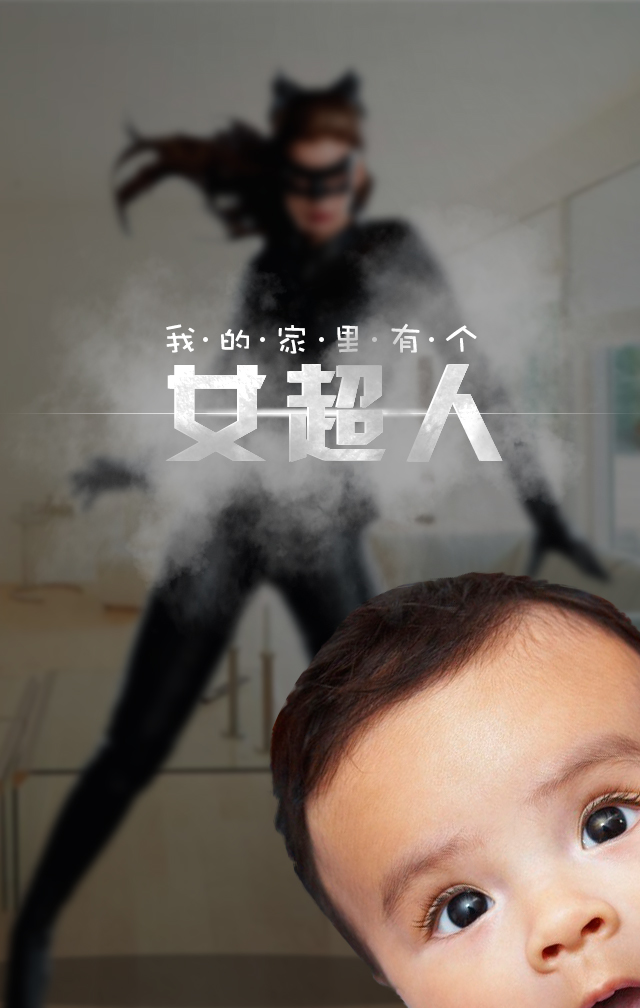
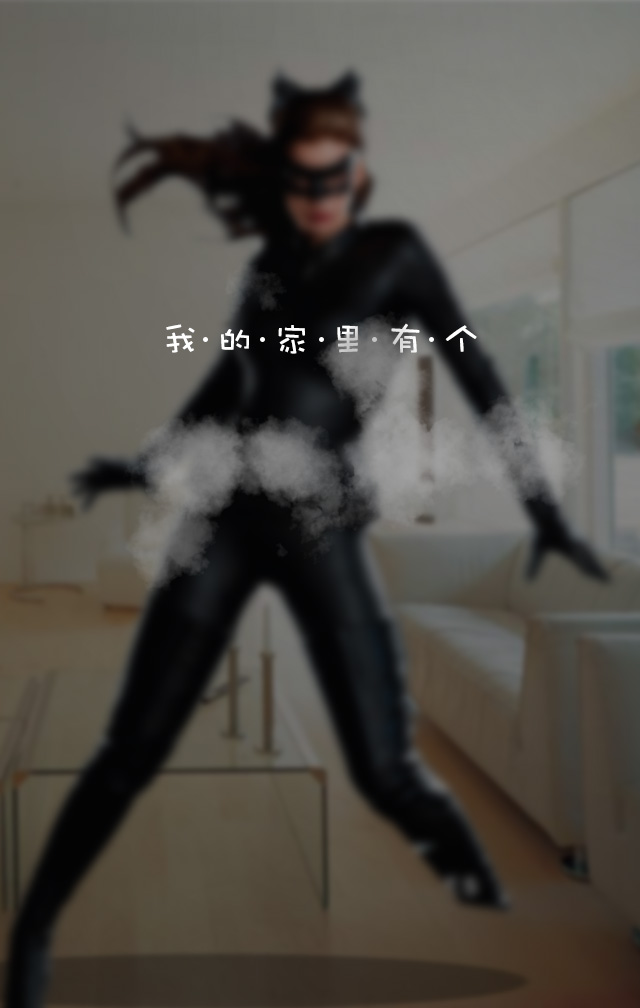
第一屏动画

diff --git a/index.html b/index.html
@@ -6,46 +6,31 @@
 	<title>顺丰海淘详情页</title>
 	<link rel="stylesheet" href="lib/fullpage/css/jquery.fullPage.css">
 	<link rel="stylesheet" href="css/style.css">
-	<style>
-	.section{
-		background-repeat: no-repeat;
-		background-size: cover;
-		background-position: center top;
-	}
-	.section:nth-child(1){
-		background-image: url(img/1.jpg);
-	}
-	.section:nth-child(2){
-		background-image: url(img/2.jpg);
-	}
-	.section:nth-child(3){
-		background-image: url(img/3.jpg);
-	}
-	.section:nth-child(4){
-		background-image: url(img/4.jpg);
-	}
-	.section:nth-child(5){
-		background-image: url(img/5.jpg);
-	}
-	</style>
 </head>
 <body>
 	<div class="main">
-		<div class="section">
+		<section class="section section1">
+			<img src="img/superman.png" class="section1-superman" alt="">
+			<img src="img/line.png" class="section1-line" alt="">
+			<img src="img/smoke.png" class="section1-smoke" alt="">
+			<img src="img/baby.png" class="section1-baby" alt="">
+		</section>
+		
+		<section class="section section2">
 			
-		</div>
-		<div class="section">
+		</section>
+		<section class="section section3">
 			
-		</div>
-		<div class="section">
+		</section>
+		<section class="section section4">
 			
-		</div>
-		<div class="section">
+		</section>
+		<section class="section section5">
 			
-		</div>
-		<div class="section">
+		</section>
+		<section class="section section6">
 			
-		</div>
+		</section>
 	</div>
 	<script src="js/jquery-1.10.2.min.js"></script>
 	<script src="lib/fullpage/js/jquery-ui-1.10.3.min.js"></script>

diff --git a/css/style.css b/css/style.css
@@ -1,0 +1,65 @@
+.section{
+	background-repeat: no-repeat;
+	background-position: center top;
+	position: relative;
+	background-size: 100%;	
+}
+.section1{
+	background-image: url(../img/1.jpg);
+}
+.section2{
+	background-image: url(../img/2.jpg);
+}
+.section3{
+	background-image: url(../img/3.jpg);
+}
+.section4{
+	background-image: url(../img/4.jpg);
+}
+.section5{
+	background-image: url(../img/5.jpg);
+}
+.section6{
+	background-image: url(../img/6.jpg);
+}
+img{
+	position: absolute;
+}
+.section1-superman{
+	width: 52.81%;
+	top: 100%;
+	left: 25.78%;
+	-webkit-transition:top 0.5s;
+}
+.active .section1-superman{
+	top: 36.11%;
+}
+.section1-line{
+	top: 40.37%;
+	left: 50%;
+	-webkit-transform:translateX(-50%);
+	width: 0%;
+	-webkit-transition:width 0.25s 0.5s;
+}
+.active .section1-line{
+	width: 100%;
+}
+
+.section1-smoke{
+	width: 100%;
+	top: 57px;
+	opacity: 0;
+	-webkit-transition:opacity 0.5s 0.75s;
+}
+.active .section1-smoke{
+	opacity:1;
+}
+.section1-baby{
+	width:59.84%;
+	right: 0;
+	bottom:-300px;
+	-webkit-transition:bottom 0.5s 1.25s;
+}
+.active .section1-baby{
+	bottom:0;
+}
